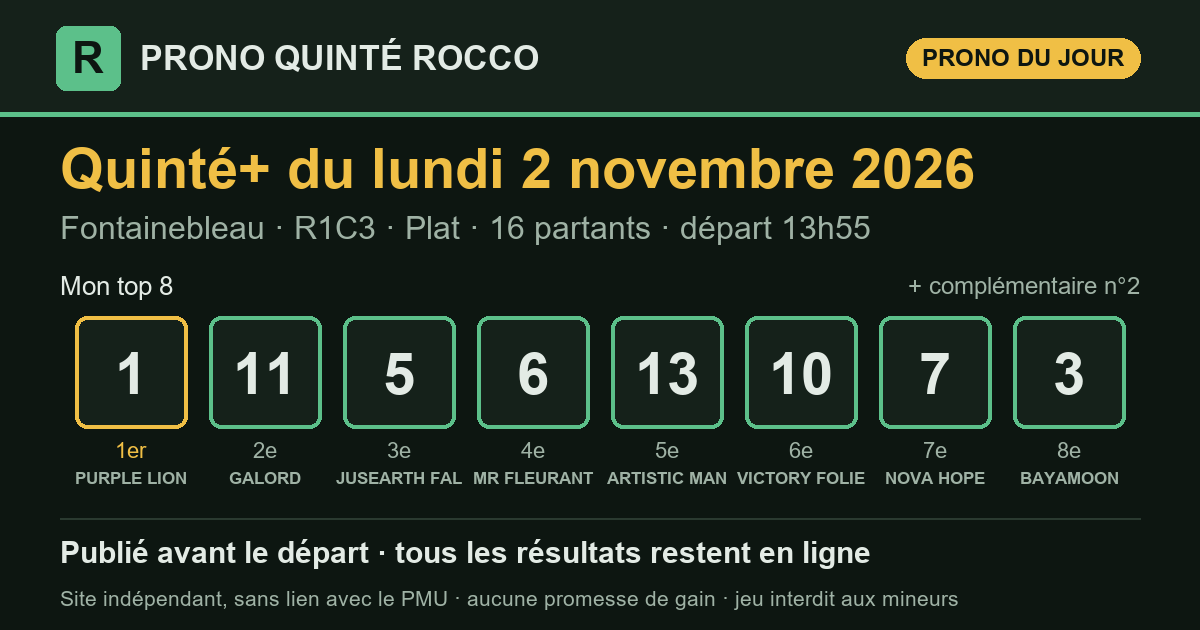
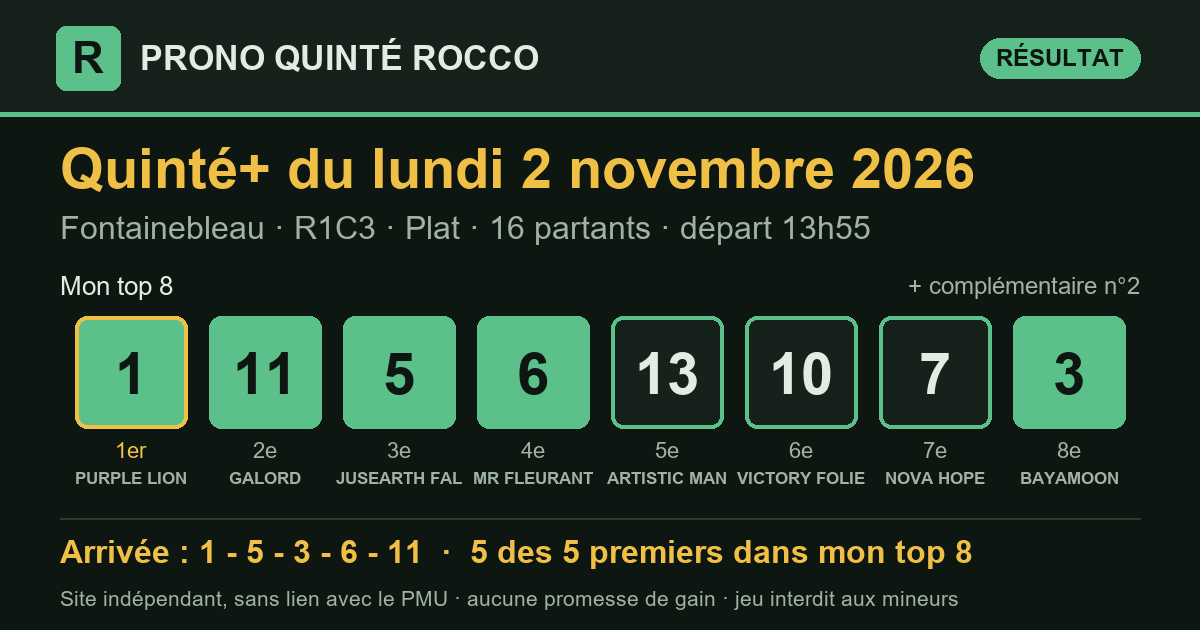
Prono Quinté+ 2026-11-02 Fontainebleau R1C3 — publié le 02/11/2026 14:06 (heure de Paris)

diff --git a/index.html b/index.html
@@ -16,7 +16,7 @@
 <meta property="og:title" content="Pronostic Quinté+ du lundi 2 novembre 2026 — Prono Quinté Rocco">
 <meta property="og:description" content="Pronostic Quinté+ du jour : mon top 8, publié avant le départ, puis tous les résultats et le rendement réel.">
 <meta property="og:url" content="https://prono-quinte-rocco.fr/">
-<meta property="og:image" content="https://prono-quinte-rocco.fr/partage/2026-11-02.png?v=b9b3dd3b">
+<meta property="og:image" content="https://prono-quinte-rocco.fr/partage/2026-11-02.png?v=1547c91f">
 <meta property="og:image:type" content="image/png">
 <meta property="og:image:width" content="1200">
 <meta property="og:image:height" content="630">
@@ -31,7 +31,7 @@
 </header>
 <main>
 <section class="une" aria-labelledby="t-jour">
-  <p class="surtitre">Quinté+ du jour</p>
+  <p class="surtitre">Dernier Quinté+</p>
   <h1 id="t-jour">Le prono du Quinté+, résultats compris</h1>
   <p class="chapo">Chaque matin, j'étudie les partants du Quinté+ avec le logiciel que
   j'ai conçu, selon ma propre méthode, qu'une intelligence artificielle m'aide à
@@ -42,10 +42,13 @@
   <p class="meta">Fontainebleau · <strong>R1C3</strong> · Plat · 16 partants · lisibilité <span class="note" aria-label="note 2 sur 5"><i class="on"></i><i class="on"></i><i class=""></i><i class=""></i><i class=""></i></span> 2/5</p>
   <div class="zone-prono">
     <h3 class="zone-titre">Mon top 8</h3>
-    <ol class="partants" aria-label="Mon top 8"><li><span class="rang">1<sup>er</sup></span><span class="tapis ">1</span><span class="nom">PURPLE LION</span></li><li><span class="rang">2<sup>e</sup></span><span class="tapis ">11</span><span class="nom">GALORD</span></li><li><span class="rang">3<sup>e</sup></span><span class="tapis ">5</span><span class="nom">JUSEARTH FAL</span></li><li><span class="rang">4<sup>e</sup></span><span class="tapis ">6</span><span class="nom">MR FLEURANT</span></li><li><span class="rang">5<sup>e</sup></span><span class="tapis ">13</span><span class="nom">ARTISTIC MAN</span></li><li><span class="rang">6<sup>e</sup></span><span class="tapis ">10</span><span class="nom">VICTORY FOLIE</span></li><li><span class="rang">7<sup>e</sup></span><span class="tapis ">7</span><span class="nom">NOVA HOPE</span></li><li><span class="rang">8<sup>e</sup></span><span class="tapis ">3</span><span class="nom">BAYAMOON</span></li><li><span class="rang">compl.</span><span class="tapis creux">2</span><span class="nom">DOUBLE UP</span></li></ol>
+    <ol class="partants" aria-label="Mon top 8"><li><span class="rang">1<sup>er</sup></span><span class="tapis plein">1</span><span class="nom">PURPLE LION</span></li><li><span class="rang">2<sup>e</sup></span><span class="tapis plein">11</span><span class="nom">GALORD</span></li><li><span class="rang">3<sup>e</sup></span><span class="tapis plein">5</span><span class="nom">JUSEARTH FAL</span></li><li><span class="rang">4<sup>e</sup></span><span class="tapis plein">6</span><span class="nom">MR FLEURANT</span></li><li><span class="rang">5<sup>e</sup></span><span class="tapis ">13</span><span class="nom">ARTISTIC MAN</span></li><li><span class="rang">6<sup>e</sup></span><span class="tapis ">10</span><span class="nom">VICTORY FOLIE</span></li><li><span class="rang">7<sup>e</sup></span><span class="tapis ">7</span><span class="nom">NOVA HOPE</span></li><li><span class="rang">8<sup>e</sup></span><span class="tapis plein">3</span><span class="nom">BAYAMOON</span></li><li><span class="rang">compl.</span><span class="tapis creux">2</span><span class="nom">DOUBLE UP</span></li></ol>
     <div class="pied-carte"><span>Analysé le 02/11 à 10:07 · en ligne le 02/11 à 10:11 · départ à 13:55 (heure de Paris)</span><span><a href="quinte/2026-11-02.html">Détail de la course</a></span></div>
   </div>
-  <div class="zone-arrivee attente"><p>L'arrivée officielle s'affichera ici après la course.</p></div>
+  <div class="zone-arrivee">
+    <div class="zone-tete"><h3 class="zone-titre">Arrivée officielle</h3><span class="etat place">5 des 5 premiers dans mon top 8</span><span class="etat gagne">mon 1er (n°1) : gagnant</span></div>
+    <ol class="partants" aria-label="Arrivée officielle"><li><span class="rang">1<sup>er</sup></span><span class="tapis plein">1</span><span class="nom">PURPLE LION</span></li><li><span class="rang">2<sup>e</sup></span><span class="tapis plein">5</span><span class="nom">JUSEARTH FAL</span></li><li><span class="rang">3<sup>e</sup></span><span class="tapis plein">3</span><span class="nom">BAYAMOON</span></li><li><span class="rang">4<sup>e</sup></span><span class="tapis plein">6</span><span class="nom">MR FLEURANT</span></li><li><span class="rang">5<sup>e</sup></span><span class="tapis plein">11</span><span class="nom">GALORD</span></li></ol>
+  </div>
 </article>
 </section>
 <section class="suivre" aria-label="Suivre et soutenir">
@@ -75,7 +78,7 @@
 </section>
 <section class="bilan" aria-labelledby="t-bilan">
   <h2 id="t-bilan">Mon bilan depuis le 8 septembre 2026</h2>
-  <div class="tableau chiffres"><div class="case"><span class="gros ">72 %</span><span class="lib">des arrivants trouvés dans mon top 8</span><span class="ref">un top 8 tiré au hasard : 51 %</span></div><div class="case"><span class="gros ">87 %</span><span class="lib">des gagnants présents dans mon top 8</span><span class="ref"></span></div><div class="case"><span class="gros ">46 %</span><span class="lib">mon 1er placé</span><span class="ref">sur 54 Quintés</span></div><div class="case"><span class="gros perte">0,86 €</span><span class="lib">rendus pour 1 € joué placé sur mon 1er</span><span class="ref">rapports officiels PMU</span></div><div class="case"><span class="gros perte">0,44 €</span><span class="lib">rendus pour 1 € joué en Quinté+ combiné sur mon top 8</span><span class="ref">56 combinaisons, rapports PMU.fr, sur 54 Quintés</span></div></div>
+  <div class="tableau chiffres"><div class="case"><span class="gros ">72 %</span><span class="lib">des arrivants trouvés dans mon top 8</span><span class="ref">un top 8 tiré au hasard : 51 %</span></div><div class="case"><span class="gros ">87 %</span><span class="lib">des gagnants présents dans mon top 8</span><span class="ref"></span></div><div class="case"><span class="gros ">46 %</span><span class="lib">mon 1er placé</span><span class="ref">sur 54 Quintés</span></div><div class="case"><span class="gros perte">0,86 €</span><span class="lib">rendus pour 1 € joué placé sur mon 1er</span><span class="ref">rapports officiels PMU</span></div><div class="case"><span class="gros perte">0,44 €</span><span class="lib">rendus pour 1 € joué en Quinté+ combiné sur mon top 8</span><span class="ref">56 combinaisons, rapports PMU.fr, sur 55 Quintés</span></div></div>
   <p class="avertissement">Moins de 1 € rendu pour 1 € joué : suivre mon prono à la lettre fait <strong>perdre de l'argent</strong> sur cette période. Il sert à analyser une course, pas à promettre un gain.</p>
 </section>
 </main>

diff --git a/partants.html b/partants.html
@@ -35,19 +35,19 @@
     <p class="fiche-depart">Départ <b>13:55</b> <span>heure de Paris</span></p>
   </div>
   <p class="surtitre">Les pronostics ailleurs sur le web</p>
-  <div class="liens"><a class="lien-ext" href="https://www.turfoo.fr/programmes-courses/261102/reunion1-fontainebleau/course3-prix-de-la-seine-et-marne/pronostics-presse/" rel="noopener" target="_blank"><b>Les pronostics de la presse →</b><span>sur Turfoo (site extérieur)</span></a><a class="lien-ext" href="https://www.geny.com/programme/2026-11-02" rel="noopener" target="_blank"><b>Partants et pronostics →</b><span>programme du jour sur Geny (site extérieur)</span></a></div>
+  <div class="liens"><a class="lien-ext" href="https://www.turfoo.fr/programmes-courses/261102/" rel="noopener" target="_blank"><b>Les pronostics de la presse →</b><span>sur Turfoo (site extérieur)</span></a><a class="lien-ext" href="https://www.geny.com/programme/2026-11-02" rel="noopener" target="_blank"><b>Partants et pronostics →</b><span>programme du jour sur Geny (site extérieur)</span></a></div>
   <div class="liste-boite"><table class="liste-partants">
     <thead><tr><th>N°</th><th>Cheval</th><th class="cote"><span class="long">Cote du matin</span><span class="court">Cote</span></th>
     <th class="ia"><span class="long">Mon prono</span><span class="court">Prono</span></th></tr></thead>
     <tbody><tr>
   <td><span class="tapis petit">1</span></td>
   <td><span class="cheval">PURPLE LION</span><span class="sous">H.BOUTIN · FH.GRAFFARD (S)</span></td>
-  <td class="cote num">7,0</td>
+  <td class="cote num">5,3</td>
   <td class="ia"><span class="etat place">1<sup>er</sup></span></td>
 </tr><tr>
   <td><span class="tapis petit">2</span></td>
   <td><span class="cheval">DOUBLE UP</span><span class="sous">A.MADAMET · S.WATTEL (S)</span></td>
-  <td class="cote num">19,0</td>
+  <td class="cote num">17,0</td>
   <td class="ia"><span class="etat place">compl.</span></td>
 </tr><tr>
   <td><span class="tapis petit">3</span></td>
@@ -57,27 +57,27 @@
 </tr><tr>
   <td><span class="tapis petit">4</span></td>
   <td><span class="cheval">FELIX AUX ORMES</span><span class="sous">H.JOURNIAC · Y.BARBEROT (S)</span></td>
-  <td class="cote num">16,0</td>
+  <td class="cote num">23,0</td>
   <td class="ia">—</td>
 </tr><tr>
   <td><span class="tapis petit">5</span></td>
   <td><span class="cheval">JUSEARTH FAL</span><span class="sous">C.LECOEUVRE · M.PITART</span></td>
-  <td class="cote num">9,0</td>
+  <td class="cote num">9,9</td>
   <td class="ia"><span class="etat place">3<sup>e</sup></span></td>
 </tr><tr>
   <td><span class="tapis petit">6</span></td>
   <td><span class="cheval">MR FLEURANT</span><span class="sous">A.HAMELIN · A.WATRIGANT (S)</span></td>
-  <td class="cote num">7,2</td>
+  <td class="cote num">9,0</td>
   <td class="ia"><span class="etat place">4<sup>e</sup></span></td>
 </tr><tr>
   <td><span class="tapis petit">7</span></td>
   <td><span class="cheval">NOVA HOPE</span><span class="sous">A.LEMAITRE · F.FORESI</span></td>
-  <td class="cote num">29,0</td>
+  <td class="cote num">26,0</td>
   <td class="ia"><span class="etat place">7<sup>e</sup></span></td>
 </tr><tr>
   <td><span class="tapis petit">8</span></td>
   <td><span class="cheval">ZELMAN</span><span class="sous">M.GRANDIN · AS&amp;D.ALLARD (S)</span></td>
-  <td class="cote num">33,0</td>
+  <td class="cote num">36,0</td>
   <td class="ia">—</td>
 </tr><tr>
   <td><span class="tapis petit">9</span></td>
@@ -87,22 +87,22 @@
 </tr><tr>
   <td><span class="tapis petit">10</span></td>
   <td><span class="cheval">VICTORY FOLIE</span><span class="sous">M.GUYON · N.CAULLERY</span></td>
-  <td class="cote num">11,0</td>
+  <td class="cote num">12,0</td>
   <td class="ia"><span class="etat place">6<sup>e</sup></span></td>
 </tr><tr>
   <td><span class="tapis petit">11</span></td>
   <td><span class="cheval">GALORD</span><span class="sous">E.HARDOUIN · C.FEY (S)</span></td>
-  <td class="cote num">5,6</td>
+  <td class="cote num">4,9</td>
   <td class="ia"><span class="etat place">2<sup>e</sup></span></td>
 </tr><tr>
   <td><span class="tapis petit">12</span></td>
   <td><span class="cheval">HENDRIXX</span><span class="sous">F.VALLE SKAR · C&amp;Y.LERNER (S)</span></td>
-  <td class="cote num">43,0</td>
+  <td class="cote num">46,0</td>
   <td class="ia">—</td>
 </tr><tr>
   <td><span class="tapis petit">13</span></td>
   <td><span class="cheval">ARTISTIC MAN</span><span class="sous">T.TRULLIER · F.JOLIVET (S)</span></td>
-  <td class="cote num">13,0</td>
+  <td class="cote num">12,0</td>
   <td class="ia"><span class="etat place">5<sup>e</sup></span></td>
 </tr><tr>
   <td><span class="tapis petit">14</span></td>
@@ -112,7 +112,7 @@
 </tr><tr>
   <td><span class="tapis petit">15</span></td>
   <td><span class="cheval">KIANDA</span><span class="sous">M.VELON · M.DELZANGLES</span></td>
-  <td class="cote num">39,0</td>
+  <td class="cote num">47,0</td>
   <td class="ia">—</td>
 </tr><tr>
   <td><span class="tapis petit">16</span></td>
@@ -122,7 +122,7 @@
 </tr></tbody>
   </table></div>
   <p class="meta">La colonne « Mon prono » donne le rang de chaque cheval dans mon top 8, tel qu&#x27;il est publié sur ce site. Sous chaque cheval : jockey · entraîneur. Partants et cotes : programme
-  officiel du PMU, lu le 02/11 à 10:11 (heure de Paris). NP = non-partant.</p>
+  officiel du PMU, lu le 02/11 à 14:06 (heure de Paris). NP = non-partant.</p>
 </section>
 </main>
 <footer class="pied">

diff --git a/quinte/2026-11-02.html b/quinte/2026-11-02.html
@@ -16,7 +16,7 @@
 <meta property="og:title" content="Pronostic Quinté+ du lundi 2 novembre 2026 à Fontainebleau — Prono Quinté Rocco">
 <meta property="og:description" content="Prono Quinté+ du lundi 2 novembre 2026 (Fontainebleau) : mon top 8, l&#x27;arrivée officielle et les rapports PMU.fr.">
 <meta property="og:url" content="https://prono-quinte-rocco.fr/quinte/2026-11-02.html">
-<meta property="og:image" content="https://prono-quinte-rocco.fr/partage/2026-11-02.png?v=b9b3dd3b">
+<meta property="og:image" content="https://prono-quinte-rocco.fr/partage/2026-11-02.png?v=1547c91f">
 <meta property="og:image:type" content="image/png">
 <meta property="og:image:width" content="1200">
 <meta property="og:image:height" content="630">
@@ -35,15 +35,25 @@
   <h1>Pronostic Quinté+ du lundi 2 novembre 2026</h1>
   <p class="chapo">Fontainebleau · R1C3 · Plat · 16 partants</p>
   <article class="carte-course">
-  <div class="tete"><h2>Mon prono</h2></div>
+  <div class="tete"><h2>Mon prono et l&#x27;arrivée officielle</h2></div>
   <p class="meta">Fontainebleau · <strong>R1C3</strong> · Plat · 16 partants · lisibilité <span class="note" aria-label="note 2 sur 5"><i class="on"></i><i class="on"></i><i class=""></i><i class=""></i><i class=""></i></span> 2/5</p>
   <div class="zone-prono">
     <h3 class="zone-titre">Mon top 8</h3>
-    <ol class="partants" aria-label="Mon top 8"><li><span class="rang">1<sup>er</sup></span><span class="tapis ">1</span><span class="nom">PURPLE LION</span></li><li><span class="rang">2<sup>e</sup></span><span class="tapis ">11</span><span class="nom">GALORD</span></li><li><span class="rang">3<sup>e</sup></span><span class="tapis ">5</span><span class="nom">JUSEARTH FAL</span></li><li><span class="rang">4<sup>e</sup></span><span class="tapis ">6</span><span class="nom">MR FLEURANT</span></li><li><span class="rang">5<sup>e</sup></span><span class="tapis ">13</span><span class="nom">ARTISTIC MAN</span></li><li><span class="rang">6<sup>e</sup></span><span class="tapis ">10</span><span class="nom">VICTORY FOLIE</span></li><li><span class="rang">7<sup>e</sup></span><span class="tapis ">7</span><span class="nom">NOVA HOPE</span></li><li><span class="rang">8<sup>e</sup></span><span class="tapis ">3</span><span class="nom">BAYAMOON</span></li><li><span class="rang">compl.</span><span class="tapis creux">2</span><span class="nom">DOUBLE UP</span></li></ol>
+    <ol class="partants" aria-label="Mon top 8"><li><span class="rang">1<sup>er</sup></span><span class="tapis plein">1</span><span class="nom">PURPLE LION</span></li><li><span class="rang">2<sup>e</sup></span><span class="tapis plein">11</span><span class="nom">GALORD</span></li><li><span class="rang">3<sup>e</sup></span><span class="tapis plein">5</span><span class="nom">JUSEARTH FAL</span></li><li><span class="rang">4<sup>e</sup></span><span class="tapis plein">6</span><span class="nom">MR FLEURANT</span></li><li><span class="rang">5<sup>e</sup></span><span class="tapis ">13</span><span class="nom">ARTISTIC MAN</span></li><li><span class="rang">6<sup>e</sup></span><span class="tapis ">10</span><span class="nom">VICTORY FOLIE</span></li><li><span class="rang">7<sup>e</sup></span><span class="tapis ">7</span><span class="nom">NOVA HOPE</span></li><li><span class="rang">8<sup>e</sup></span><span class="tapis plein">3</span><span class="nom">BAYAMOON</span></li><li><span class="rang">compl.</span><span class="tapis creux">2</span><span class="nom">DOUBLE UP</span></li></ol>
     <div class="pied-carte"><span>Analysé le 02/11 à 10:07 · en ligne le 02/11 à 10:11 · départ à 13:55 (heure de Paris)</span><span></span></div>
   </div>
-  <div class="zone-arrivee attente"><p>L'arrivée officielle s'affichera ici après la course.</p></div>
+  <div class="zone-arrivee">
+    <div class="zone-tete"><h3 class="zone-titre">Arrivée officielle</h3><span class="etat place">5 des 5 premiers dans mon top 8</span><span class="etat gagne">mon 1er (n°1) : gagnant</span></div>
+    <ol class="partants" aria-label="Arrivée officielle"><li><span class="rang">1<sup>er</sup></span><span class="tapis plein">1</span><span class="nom">PURPLE LION</span></li><li><span class="rang">2<sup>e</sup></span><span class="tapis plein">5</span><span class="nom">JUSEARTH FAL</span></li><li><span class="rang">3<sup>e</sup></span><span class="tapis plein">3</span><span class="nom">BAYAMOON</span></li><li><span class="rang">4<sup>e</sup></span><span class="tapis plein">6</span><span class="nom">MR FLEURANT</span></li><li><span class="rang">5<sup>e</sup></span><span class="tapis plein">11</span><span class="nom">GALORD</span></li></ol>
+  </div>
 </article>
+<section class="carte-course rapports" aria-labelledby="t-rap">
+  <div class="tete"><h2 id="t-rap">Les rapports</h2></div>
+  <div class="deux">
+    <div><h3>Ce qu'aurait rendu mon prono</h3><dl class="kv"><dt>1 € placé sur mon 1er (n°1)</dt><dd>rapport manquant</dd><dt>1 € gagnant sur mon 1er</dt><dd>rapport manquant</dd><dt>Quinté+ combiné sur mon top 8 (mise 112 €)</dt><dd>56,60 €</dd><dt>dont</dt><dd>Désordre × 1, Bonus 4sur5 × 15, Bonus 3 × 3</dd></dl></div>
+    <div><h3>Rapports officiels</h3><dl class="kv"><dt>e-Quinté+ Ordre (2 €)</dt><dd>915,40 €</dd><dt>e-Quinté+ Désordre (2 €)</dt><dd>10,40 €</dd><dt>e-Bonus 4sur5 (2 €)</dt><dd>2,60 €</dd><dt>e-Bonus 3 (2 €)</dt><dd>2,40 €</dd></dl></div>
+  </div>
+</section>
 </section>
 </main>
 <footer class="pied">

diff --git a/resultats.html b/resultats.html
@@ -40,11 +40,11 @@
     <th colspan="4" class="res g-res">Le résultat officiel</th></tr>
     <tr><th>Date</th><th>Course</th><th>Top 8</th><th class="res c-arr">Arrivée</th>
     <th class="res">Trouvés</th><th class="res">Mon 1er</th><th class="res mont">Quinté+ top 8<br>(mise 112 €)</th></tr></thead>
-    <tbody><tr class="attente">
+    <tbody><tr>
   <td class="c-date"><a href="quinte/2026-11-02.html">02/11</a></td>
   <td class="c-course">Fontainebleau<br><span class="meta">R1C3 · Plat</span></td>
-  <td class="c-top8" data-label="Mon top 8"><div class="rangee"><span class="tapis petit">1</span><span class="tapis petit">11</span><span class="tapis petit">5</span><span class="tapis petit">6</span><span class="tapis petit">13</span><span class="tapis petit">10</span><span class="tapis petit">7</span><span class="tapis petit">3</span></div></td>
-  <td class="res c-arr" data-label="Arrivée"><span class="etat attente">en attente</span></td><td class="res num c-trouves" data-label="Trouvés">—</td><td class="res c-premier" data-label="Mon 1er"><span class="etat attente">—</span></td><td class="res mont c-mont" data-label="Quinté+ top 8 (mise 112 €)">—</td>
+  <td class="c-top8" data-label="Mon top 8"><div class="rangee"><span class="tapis plein petit">1</span><span class="tapis plein petit">11</span><span class="tapis plein petit">5</span><span class="tapis plein petit">6</span><span class="tapis petit">13</span><span class="tapis petit">10</span><span class="tapis petit">7</span><span class="tapis plein petit">3</span></div></td>
+  <td class="res c-arr" data-label="Arrivée"><div class="rangee"><span class="tapis plein petit" title="1er">1</span><span class="tapis plein petit" title="2e">5</span><span class="tapis plein petit" title="3e">3</span><span class="tapis plein petit" title="4e">6</span><span class="tapis plein petit" title="5e">11</span></div></td><td class="res num c-trouves" data-label="Trouvés">5/5</td><td class="res c-premier" data-label="Mon 1er"><span class="etat gagne">gagnant</span></td><td class="res mont c-mont perte" data-label="Quinté+ top 8 (mise 112 €)">56,60 €</td>
 </tr><tr>
   <td class="c-date"><a href="quinte/2026-11-01.html">01/11</a></td>
   <td class="c-course">Laval<br><span class="meta">R1C4 · Attelé</span></td>
@@ -320,7 +320,7 @@
 </section>
 <section class="bilan" aria-labelledby="t-bilan">
   <h2 id="t-bilan">Mon bilan depuis le 8 septembre 2026</h2>
-  <div class="tableau chiffres"><div class="case"><span class="gros ">72 %</span><span class="lib">des arrivants trouvés dans mon top 8</span><span class="ref">un top 8 tiré au hasard : 51 %</span></div><div class="case"><span class="gros ">87 %</span><span class="lib">des gagnants présents dans mon top 8</span><span class="ref"></span></div><div class="case"><span class="gros ">46 %</span><span class="lib">mon 1er placé</span><span class="ref">sur 54 Quintés</span></div><div class="case"><span class="gros perte">0,86 €</span><span class="lib">rendus pour 1 € joué placé sur mon 1er</span><span class="ref">rapports officiels PMU</span></div><div class="case"><span class="gros perte">0,44 €</span><span class="lib">rendus pour 1 € joué en Quinté+ combiné sur mon top 8</span><span class="ref">56 combinaisons, rapports PMU.fr, sur 54 Quintés</span></div></div>
+  <div class="tableau chiffres"><div class="case"><span class="gros ">72 %</span><span class="lib">des arrivants trouvés dans mon top 8</span><span class="ref">un top 8 tiré au hasard : 51 %</span></div><div class="case"><span class="gros ">87 %</span><span class="lib">des gagnants présents dans mon top 8</span><span class="ref"></span></div><div class="case"><span class="gros ">46 %</span><span class="lib">mon 1er placé</span><span class="ref">sur 54 Quintés</span></div><div class="case"><span class="gros perte">0,86 €</span><span class="lib">rendus pour 1 € joué placé sur mon 1er</span><span class="ref">rapports officiels PMU</span></div><div class="case"><span class="gros perte">0,44 €</span><span class="lib">rendus pour 1 € joué en Quinté+ combiné sur mon top 8</span><span class="ref">56 combinaisons, rapports PMU.fr, sur 55 Quintés</span></div></div>
   <p class="avertissement">Moins de 1 € rendu pour 1 € joué : suivre mon prono à la lettre fait <strong>perdre de l'argent</strong> sur cette période. Il sert à analyser une course, pas à promettre un gain.</p>
 </section>
 </main>
